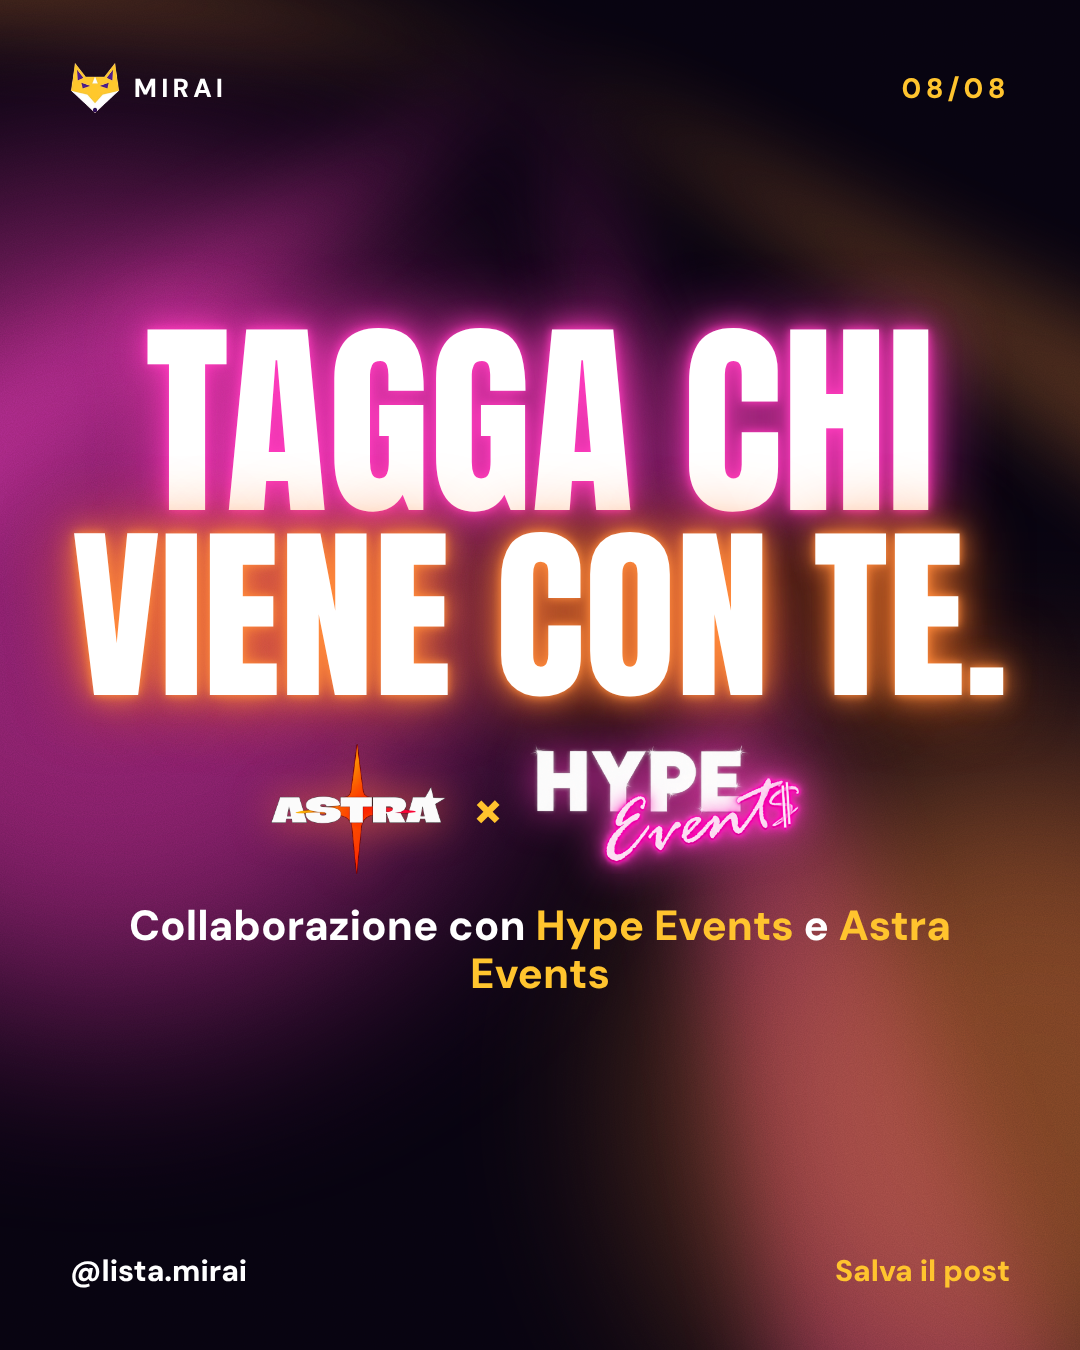
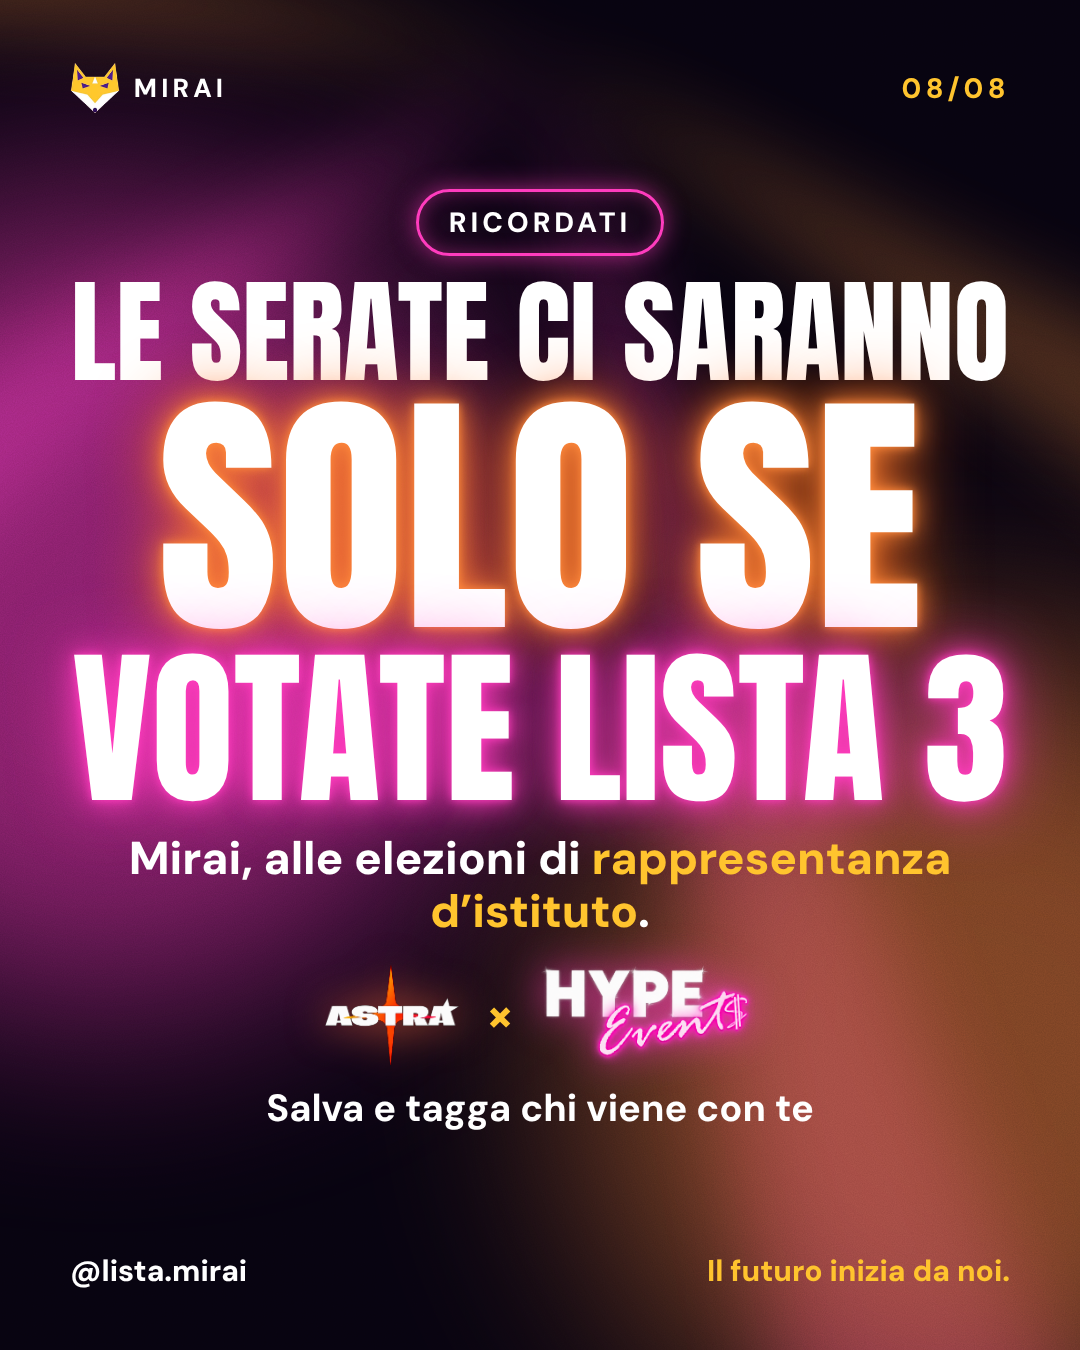
Collab neon: condizione finale (solo se votate Lista 3 Mirai)

diff --git a/social/campagna/neon.html b/social/campagna/neon.html
@@ -62,8 +62,12 @@
  <div class="ctr" style="gap:30px"><div class="A" style="display:flex;flex-direction:column;align-items:center;gap:6px"><div class="pk" data-max="200" data-box="940">Non una serata.</div><div class="or" data-max="260" data-box="940">Un calendario.</div></div>
   <div class="sub" style="font-size:46px;max-width:860px">Serate <span style="color:#ffc42e">tutto l’anno</span>, una dopo l’altra.</div>
   <div class="sub" style="font-size:36px;font-weight:500;max-width:800px;opacity:.9">Date e novità le trovi qui: segui <b>@lista.mirai</b>.</div></div><div class="foot"><span>@lista.mirai</span><b>Il futuro inizia da noi.</b></div></section>
-<section class="s" id="nCta"><div class="beam" style="transform:scaleX(-1)"></div><div class="glow" style="width:800px;height:800px;background:#ff3cbe;left:-300px;top:200px;opacity:.5"></div><div class="glow" style="width:700px;height:700px;background:#ff8a3c;right:-300px;bottom:-100px;opacity:.45"></div><div class="brand"><img src="../../assets/fox-96.png" alt="">Mirai</div><div class="n">08/08</div>
- <div class="ctr" style="gap:28px"><div class="A" style="display:flex;flex-direction:column;align-items:center;gap:6px"><div class="pk" data-max="210" data-box="940">Tagga chi</div><div class="or" data-max="210" data-box="940">viene con te.</div></div>
-  <div style="display:flex;align-items:center;gap:26px;margin-top:10px"><img src="img/astra.png" style="height:130px;filter:drop-shadow(0 0 20px rgba(255,110,60,.7))"><span style="font:800 56px 'DM Sans';color:#ffc42e">×</span><img src="img/hype.png" style="height:130px;filter:drop-shadow(0 0 20px rgba(255,60,190,.8))"></div>
-  <div class="sub" style="font-size:42px;max-width:860px">Collaborazione con <span style="color:#ffc42e">Hype Events</span> e <span style="color:#ffc42e">Astra Events</span></div></div><div class="foot"><span>@lista.mirai</span><b>Salva il post</b></div></section>
+<section class="s" id="nCta"><div class="beam" style="transform:scaleX(-1)"></div><div class="glow" style="width:800px;height:800px;background:#ff3cbe;left:-300px;top:200px;opacity:.5"></div><div class="glow" style="width:800px;height:800px;background:#ff8a3c;right:-300px;bottom:-100px;opacity:.45"></div>
+ <div class="brand"><img src="../../assets/fox-96.png" alt="">Mirai</div><div class="n">08/08</div>
+ <div class="ctr" style="gap:22px"><span class="pill">Ricordati</span>
+  <div class="A" style="display:flex;flex-direction:column;align-items:center;gap:8px"><div class="w" data-max="170" data-box="940">Le serate ci saranno</div><div class="or" data-max="260" data-box="940">solo se</div><div class="pk" data-max="200" data-box="940">votate Lista 3</div></div>
+  <div class="sub" style="font-size:46px;max-width:880px">Mirai, alle elezioni di <span style="color:#ffc42e">rappresentanza d’istituto</span>.</div>
+  <div style="display:flex;align-items:center;gap:26px;margin-top:6px"><img src="img/astra.png" style="height:100px;filter:drop-shadow(0 0 20px rgba(255,110,60,.7))"><span style="font:800 50px 'DM Sans';color:#ffc42e">×</span><img src="img/hype.png" style="height:100px;filter:drop-shadow(0 0 20px rgba(255,60,190,.8))"></div>
+  <div class="sub" style="font-size:38px;font-weight:700">Salva e tagga chi viene con te</div></div>
+ <div class="foot"><span>@lista.mirai</span><b>Il futuro inizia da noi.</b></div></section>
 <script>document.fonts.ready.then(()=>{document.querySelectorAll('[data-max]').forEach(e=>{let s=+e.dataset.max;const box=+(e.dataset.box||940);e.style.fontSize=s+'px';e.style.display='table';e.style.marginLeft='auto';e.style.marginRight='auto';const w=e.scrollWidth;if(w>box){s=Math.floor(s*box/w);e.style.fontSize=s+'px'}});document.body.dataset.ready=1})</script></body></html>
